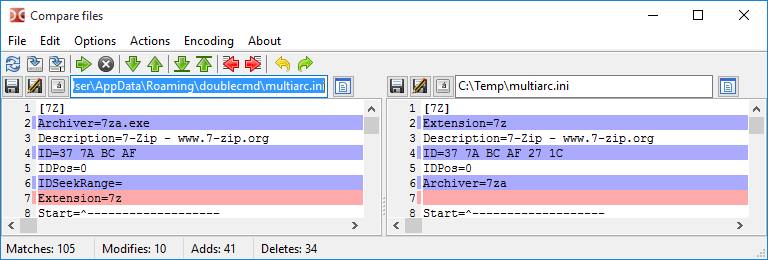
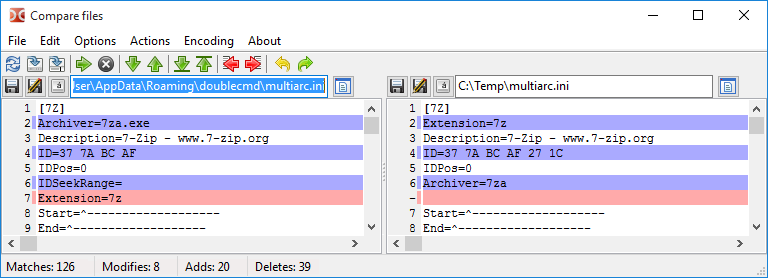
ADD: configuration.html: File associations: Using the internal commands of DC. ADD: configuration.html: Packer plugins: Note about the order of use and how to change it. ADD: multiarc.html: Using ID: How to get a file signature(s). ADD: variables.html: DC environment variables. FIX/CHG: Some Screens

diff --git a/doc/ru/configuration.html b/doc/ru/configuration.html
@@ -565,7 +565,7 @@
         <p><span class="italic">Имя файла плагина при добавлении</span>&nbsp;&ndash; Здесь вы можете выбрать, как будет установлен путь при добавлении плагинов:</p>
         <ul>
           <li><p>С полным абсолютным путём.</p></li>
-          <li><p>С путём относительно %COMMANDER_PATH%.</p></li>
+          <li><p>С путём относительно <a href="variables.html#envvariables">%COMMANDER_PATH%</a>.</p></li>
           <li><p>С путём относительно указанного.</p></li>
         </ul>
         <p>Также вы можете применить выбранный способ к уже добавленным плагинам.</p>
@@ -573,7 +573,8 @@
         <p>Есть несколько типов плагинов:</p>
         <p><span class="italic">1. Архиваторные плагины (WCX)</span></p>
         <p>Архиваторные плагины используются для распаковки определённых типов файлов, обычно архивных форматов. Некоторые плагины также поддерживают создание новых архивов и изменение существующих.<br>
-          Существуют WCX-плагины, позволяющие сохранить список выделенных файлов или использовать пакетную обработку: создание ссылок, конвертирование файлов, копирование с определёнными условиями и т.д.</p>
+          Существуют WCX-плагины, позволяющие сохранить список выделенных файлов или использовать пакетную обработку: создание ссылок, конвертирование файлов, копирование с определёнными условиями и т.д.<br>
+          Порядок имеет значение: при выборе подходящего плагина Double Commander начинает проверку по расширению сверху вниз. Используйте кнопку <span class="italic">Расширения/Плагины</span> для переключения режима представления списка и перетаскивание.</p>
         <p><span class="italic">2. Информационные (или контентные) плагины (WDX)</span></p>
         <p>Информационные плагины предназначены для получения свойств файла или информации о его содержимом (например, теги EXIF или ID3). Вы можете использовать эти данные в инструменте поиска файлов или группового переименования, наборе колонок, всплывающих подсказках.<br>
           Также Double Commander поддерживает контентные плагины, написанные на языке Lua (скрипты добавляются как обычные плагины). Примеры можно найти в папке программы (<tt>plugins/wdx/scripts</tt>).</p>
@@ -634,7 +635,7 @@
         <p>В этом разделе вы можете выбрать, как будет установлен путь при добавлении значков, команд и путей запуска:</p>
         <ul>
           <li><p>С полным абсолютным путём.</p></li>
-          <li><p>С путём относительно %COMMANDER_PATH%.</p></li>
+          <li><p>С путём относительно <a href="variables.html#envvariables">%COMMANDER_PATH%</a>.</p></li>
           <li><p>С путём относительно указанного.</p></li>
         </ul>
         <p>Также вы можете применить выбранный способ к уже добавленным путям.</p>
@@ -926,6 +927,7 @@
           <li><p><tt>{!VIEWER}</tt>&nbsp;&ndash; вызывает просмотрщик (встроенный или внешний, в зависимости от настроек);</p></li>
           <li><p><tt>{!SHELL}</tt>&nbsp;&ndash; для запуска программы использовать терминал.</p></li>
         </ul>
+        <p>В качестве команды можно использовать <a href="cmds.html">внутренние команды</a> Double Commander. Параметры внутренних команд задаются по одному на строку, поэтому здесь вы можете указать только один. Также с помощью внутренней команды cm_ExecuteScript можно запускать <a href="lua.html">скрипты Lua</a>, в этом случае вы можете получить имена выделенных файлов с помощью <a href="cmds.html#cm_CopyFullNamesToClip">cm_CopyFullNamesToClip</a> или <a href="cmds.html#cm_SaveSelectionToFile">cm_SaveSelectionToFile</a>.</p>
         <p><span class="italic">Параметры</span>&nbsp;&ndash; параметры команд, включая переменные:</p>
         <ul>
           <li><p>все <a href="variables.html">переменные, доступные в параметрах DC</a>;</p></li>
@@ -949,7 +951,7 @@
         <p>Ниже вы можете выбрать, как будет установлен путь при добавлении значков, команд и путей запуска:</p>
         <ul>
           <li><p>С полным абсолютным путём.</p></li>
-          <li><p>С путём относительно %COMMANDER_PATH%.</p></li>
+          <li><p>С путём относительно <a href="variables.html#envvariables">%COMMANDER_PATH%</a>.</p></li>
           <li><p>С путём относительно указанного.</p></li>
         </ul>
         <p>Также вы можете применить выбранный способ к уже добавленным путям.</p>
@@ -963,7 +965,7 @@
         <p>В этом разделе вы можете выбрать, как будет установлен путь и целевой путь:</p>
         <ul>
           <li><p>С полным абсолютным путём.</p></li>
-          <li><p>С путём относительно %COMMANDER_PATH%.</p></li>
+          <li><p>С путём относительно <a href="variables.html#envvariables">%COMMANDER_PATH%</a>.</p></li>
           <li><p>С путём относительно указанного.</p></li>
         </ul>
         <p>Также вы можете применить выбранный способ к уже добавленным путям.</p>

diff --git a/doc/ru/variables.html b/doc/ru/variables.html
@@ -37,6 +37,7 @@
           <dt>13. <a href="#interaction">Взаимодействие</a></dt>
           <dt>14. <a href="#miscellaneous">Прочие переменные</a></dt>
           <dt>15. <a href="#summaryall">Сводная таблица со всеми переменными</a></dt>
+          <dt>16. <a href="#envvariables">Переменные окружения</a></dt>
         </dl>
       </div>
 
@@ -62,7 +63,7 @@
           <tr class="rowsubtitle"><th class="namecolumn">Переменная</th><th class="categorydesccolumn">Что обозначает</th></tr>
           <tr>
             <td class="varcell"><div class="firstcolumnaleft">%p</div></td>
-            <td class="hintcell">Полное имя файла, путь+имя файла<br><code>Пример: %p = "C:\Users\UserName\Desktop\comment.png"</code></td>
+            <td class="hintcell">Полное имя файла, путь + имя файла<br><code>Пример: %p = "C:\Users\UserName\Desktop\comment.png"</code></td>
           </tr>
           <tr>
             <td class="varcell"><div class="firstcolumnaleft">%f</div></td>
@@ -315,7 +316,7 @@
           <tr class="rowsubtitle"><th class="namecolumn">Выражение</th><th class="categorydesccolumn">Описание</th></tr>
           <tr>
             <td class="varcell"><div class="firstcolumnaleft">%L</div></td>
-            <td class="hintcell">Файл со списком полных имён выделенных файлов (путь+имя файла)</td>
+            <td class="hintcell">Файл со списком полных имён выделенных файлов (путь + имя файла)</td>
           </tr>
           <tr>
             <td class="varcell"><div class="firstcolumnaleft">%F</div></td>
@@ -497,7 +498,7 @@
           <tr><td class="varcell"><div class="firstcolumnaleft">%/0</div></td><td class="hintcell">путь без разделителя каталогов в конце (по умолчанию)</td></tr>
           <tr><td class="varcell"><div class="firstcolumnaleft">%/1</div></td><td class="hintcell">путь с разделителем каталогов в конце</td></tr>
           <tr><td class="varcell"><div class="firstcolumnaleft">%/</div></td><td class="hintcell">восстанавливает поведение по умолчанию (без разделителя каталогов в конце)</td></tr>
-          <tr><td class="varcell"><div class="firstcolumnaleft">%L</div></td><td class="hintcell">файл со списком выделенных файлов с полными именами (путь+имя файла)</td></tr>
+          <tr><td class="varcell"><div class="firstcolumnaleft">%L</div></td><td class="hintcell">файл со списком выделенных файлов с полными именами (путь + имя файла)</td></tr>
           <tr><td class="varcell"><div class="firstcolumnaleft">%F</div></td><td class="hintcell">файл со списком только имён выделенных файлов</td></tr>
           <tr><td class="varcell"><div class="firstcolumnaleft">%R</div></td><td class="hintcell">файл со списком выделенных файлов с относительным путём</td></tr>
           <tr><td class="varcell"><div class="firstcolumnaleft">Q</div></td><td class="hintcell">суффикс для %L, %F или %R: взять имена файлов в кавычки</td></tr>
@@ -516,8 +517,32 @@
       </div>
 
       <div>
-        <p><small>Originally created by Rustem (dok_rust@bk.ru)</small></p>
+        <h2><a name="envvariables">16. Переменные окружения</a></h2>
+        <p>Double Commander предоставляет несколько переменных окружения:</p>
+        <table>
+          <tr class="rowcategorytitle"><th colspan="2">Переменные окружения</th></tr>
+          <tr class="rowsubtitle"><th class="namecolumn">Переменная</th><th class="categorydesccolumn">Описание</th></tr>
+          <tr>
+            <td class="varcell"><div class="firstcolumnaleft">%COMMANDER_PATH%</div></td>
+            <td class="hintcell">Каталог, в котором расположен исполняемый файл Double Commander</td>
+          </tr>
+          <tr>
+            <td class="varcell"><div class="firstcolumnaleft">%COMMANDER_INI%</div></td>
+            <td class="hintcell">Полное имя (путь + имя файла) основного файла конфигурации (<tt>doublecmd.xml</tt>)</td>
+          </tr>
+          <tr>
+            <td class="varcell"><div class="firstcolumnaleft">%COMMANDER_DRIVE%</div></td>
+            <td class="hintcell">Диск, на котором расположена папка Double Commander:<br>- Windows: буква диска (с двоеточием);<br>- Unix-подобные системы: точка монтирования.</td>
+          </tr>
+        </table>
+        <p>Мы можем использовать переменные окружения в настройках Double Commander: в именах исполняемых файлов и значков на панели инструментов, именах плагинов, в избранных каталогах и т.д. Это удобный способ указать путь, если мы не хотим использовать абсолютные пути.</p>
+        <p>Дополнительно доступна переменная <code>%DC_CONFIG_PATH%</code>, которая возвращает каталог с файлами конфигурации Double Commander. Это не переменная окружения и она недоступна для дочерних процессов (приложений, запущенных из программы), но в остальном мы можем использовать <code>%DC_CONFIG_PATH%</code> аналогично переменным окружения, описанным выше.</p>
+        <p class="navback"><a href="#topofpage">(наверх)</a></p>
+      </div>
+
+      <div>
         <br>
+        <p><small>Originally created by Rustem (dok_rust@bk.ru)</small></p>
       </div>
     </div>
     <div class="footer"><div class="nav"><a title="Начало" href="index.html">Начало</a> | <a title="Предыдущая страница" href="toolbar.html">Пред.</a> | <a title="Следующая страница" href="cmds.html">След.</a></div></div>

diff --git a/doc/en/configuration.html b/doc/en/configuration.html
@@ -565,7 +565,7 @@
         <p><span class="italic">Plugin filename style when adding a new plugin</span>&nbsp;&ndash; Here you can choose how the path will be set when adding plugins:</p>
         <ul>
           <li><p>With complete absolute path.</p></li>
-          <li><p>Path relative to %COMMANDER_PATH%.</p></li>
+          <li><p>Path relative to <a href="variables.html#envvariables">%COMMANDER_PATH%</a>.</p></li>
           <li><p>Relative to the specified path.</p></li>
         </ul>
         <p>Also you can apply the chosen way to the already added plugins.</p>
@@ -573,7 +573,8 @@
         <p>There are several types of plugins:</p>
         <p><span class="italic">1. Packer plugins (WCX)</span></p>
         <p>Packer plugins are used to unpack specific types of files, usually archive formats. Some plugins also support creating new archives and modifying existing archives.<br>
-          There are plugins that allow to save a list of selected files or use batch processing: creating links,converting files, copying with specific conditions, etc.</p>
+          There are plugins that allow to save a list of selected files or use batch processing: creating links,converting files, copying with specific conditions, etc.<br>
+          Order matters: when choosing an appropriate plugin, Double Commander starts checking by extension from top to bottom. Use the <span class="italic">By extension/By plugin</span> button to switch list view and drag and drop.</p>
         <p><span class="italic">2. Content plugins (WDX)</span></p>
         <p>Content plugins are designed to get properties of a file or information about its content (for example, EXIF or ID3 tags). You can use this data in the file search or multi-rename tool, column set, tooltips.<br>
           Also Double Commander supports content plugins written in the Lua language (scripts are added in the same way as ordinary plugins). Examples can be found in the program folder (<tt>plugins/wdx/scripts</tt>).</p>
@@ -634,7 +635,7 @@
         <p>In this section you can choose how the path will be set when adding icons, commands and starting paths:</p>
         <ul>
           <li><p>With complete absolute path.</p></li>
-          <li><p>Path relative to %COMMANDER_PATH%.</p></li>
+          <li><p>Path relative to <a href="variables.html#envvariables">%COMMANDER_PATH%</a>.</p></li>
           <li><p>Relative to the specified path.</p></li>
         </ul>
         <p>Also you can apply the chosen way to the already added paths.</p>
@@ -884,7 +885,7 @@
         <p>In the screenshot at the beginning of the section description, you can see an example of a tooltip with the <tt>textline.wdx</tt> plugin that shows the contents of the selected lines of a text file (in this case, the first, second and third lines), the <span class="italic">Combine DC and system tooltip, system first</span> mode is selected.</p>
         <br>
 
-        <p><span class="bold"><a name="ConfigAssociations">2.23. File associations</a></span> (internal command <tt>cm_FileAssoc</tt>)</p>
+        <p><span class="bold"><a name="ConfigAssociations">2.23. File associations</a></span></p>
         <p>This item opens the configuration file associations. All association sets are contained in the file <tt>extassoc.xml</tt>.</p>
         <p>Here you can customize file associations and set commands or scripts for some file types. Commands will be displayed in the context menu (internal command <tt>cm_ContextMenu</tt>) by right mouse clicking on a file in the panel.</p>
         <p class="figure"><img class="largeimage" title="File associations" alt="File associations" src="images/imgDC/pic48.png" width="612" height="548"></p>
@@ -926,6 +927,7 @@
           <li><p><tt>{!VIEWER}</tt>&nbsp;&ndash; call viewer (internal or external, depends on the configuration);</p></li>
           <li><p><tt>{!SHELL}</tt>&nbsp;&ndash; use a terminal to run the program.</p></li>
         </ul>
+        <p>As a command, you can use the <a href="cmds.html">internal commands</a> of Double Commander. The parameters of the internal commands are specified one per line, so you can specify only one here. Also, using the internal command cm_Execute Script, you can run <a href="lua.html">Lua scripts</a>, in this case you can get the names of the selected files using <a href="cmds.html#cm_CopyFullNamesToClip">cm_CopyFullNamesToClip</a> or <a href="cmds.html#cm_SaveSelectionToFile">cm_SaveSelectionToFile</a>.</p>
         <p><span class="italic">Parameters</span>&nbsp;&ndash; command parameters including variables:</p>
         <ul>
           <li><p>any variable from <a href="variables.html">"percent" variables</a>.</p></li>
@@ -949,7 +951,7 @@
         <p>Below you can choose how the path will be set when adding icons, commands and starting paths:</p>
         <ul>
           <li><p>With complete absolute path.</p></li>
-          <li><p>Path relative to %COMMANDER_PATH%.</p></li>
+          <li><p>Path relative to <a href="variables.html#envvariables">%COMMANDER_PATH%</a>.</p></li>
           <li><p>Relative to the specified path.</p></li>
         </ul>
         <p>Also you can apply the chosen way to the already added paths.</p>
@@ -963,7 +965,7 @@
         <p>In this section you can choose how the path will be set the path and target path:</p>
         <ul>
           <li><p>With complete absolute path.</p></li>
-          <li><p>Path relative to %COMMANDER_PATH%.</p></li>
+          <li><p>Path relative to <a href="variables.html#envvariables">%COMMANDER_PATH%</a>.</p></li>
           <li><p>Relative to the specified path.</p></li>
         </ul>
         <p>Also you can apply the chosen way to the already added paths.</p>

diff --git a/doc/ru/help.html b/doc/ru/help.html
@@ -127,9 +127,9 @@
 
         <p><a name="cm_FileProperties"><span class="bold">Свойства файла...</span></a> (команда <tt>cm_FileProperties</tt>) покажет системный диалог "Свойства" (Windows) или собственное диалоговое окно Double Commander (Linux и другие Unix-подобные системы):</p>
         <p class="figure">
-          <img class="largeimage" title="Свойства файла: Свойства" alt="Свойства файла: Свойства" src="images/imgDC/ris16.png" width="400" height="430">
-          <img class="largeimage" title="Свойства файла: Атрибуты" alt="Свойства файла: Атрибуты" src="images/imgDC/ris17.png" width="400" height="430">
-          <img class="largeimage" title="Свойства файла: Плагины" alt="Свойства файла: Плагины" src="images/imgDC/ris18.png" width="400" height="430">
+          <img class="largeimage" title="Свойства файла: Свойства" alt="Свойства файла: Свойства" src="images/imgDC/ris16.png" width="360" height="406">
+          <img class="largeimage" title="Свойства файла: Атрибуты" alt="Свойства файла: Атрибуты" src="images/imgDC/ris17.png" width="360" height="406">
+          <img class="largeimage" title="Свойства файла: Плагины" alt="Свойства файла: Плагины" src="images/imgDC/ris18.png" width="360" height="406">
         </p>
         <p>в котором указано имя файла или папки, расположение, размер, время модификации и последнего доступа, а также владелец и группа. На вкладке "Атрибуты" можно изменить уровень доступа к файлу (если у вас есть на это права). Вкладка "Плагины" опциональна и доступна только если есть подходящий информационный плагин (в данном случае это <tt>deb.wdx</tt>).</p>
 
@@ -140,7 +140,7 @@
         <p class="figure"><img class="largeimage" title="Подсчёт размера" alt="Подсчёт размера" src="images/imgDC/ris19.png" width="365" height="103"></p>
 
         <p><a name="cm_CompareContents"><span class="bold">Сравнить по содержимому</span></a> (команда <tt>cm_CompareContents</tt>) вызывает окно с двумя панелями, в которых открываются файлы для сравнения (обычно текстовые).</p>
-        <p class="figure"><img class="largeimage" title="Диалог сравнения" alt="Диалог сравнения" src="images/imgDC/ris20.png" width="768" height="260"></p>
+        <p class="figure"><img class="largeimage" title="Диалог сравнения" alt="Диалог сравнения" src="images/imgDC/ris20.png" width="768" height="278"></p>
         <p>Это простой инструмент для визуального сравнения и объединения с типичными функциями: перемещение между различиями (следующее, предыдущее, первое или последнее), копирование блоков текста справа налево и слева направо, редактирование файлов на месте, отмена и повтор последних изменений, сохранение под другим именем и другое.</p>
         <p>Настройки:</p>
         <ul>

diff --git a/doc/ru/multiarc.html b/doc/ru/multiarc.html
@@ -478,7 +478,7 @@
         <p>Для этого у нас есть три опции: ID, Смещение ID и Диапазон поиска ID.</p>
         <p>Мы укажем Double Commander, где нужно искать определённый ID для распознавания типа архива, а затем настроим команды, специфичные для этого типа архива.</p>
         <p>Начнем с простого примера. На следующем изображении показано начало архива 7-Zip в шестнадцатеричном виде:</p>
-        <p class="figure"><img class="largeimage" title="Пример архива 7-Zip" alt="Пример архива 7-Zip" src="images/imgDC/archiveimg25.png" width="764" height="138"></p>
+        <p class="figure"><img class="largeimage" title="Пример архива 7-Zip" alt="Пример архива 7-Zip" src="images/imgDC/archiveimg25.png" width="608" height="122"></p>
         <p>Посмотрев другие архивы 7-Zip, мы видим, что первые шесть байта&nbsp;&ndash; это всегда последовательность 0x37 0x7A 0xBC 0xAF 0x27 0x1C.</p>
         <p>Итак, извлечём из этого пользу: столкнувшись с файлом, который начинается с этой последовательности, Double Commander предположит, что этот файл является архивом 7-Zip.</p>
         <p>Настраиваем:</p>
@@ -489,6 +489,7 @@
         <p><b>Примечание:</b> Все вышеуказанные параметры могут иметь несколько значений, в таком случае можно перечислить их через запятую.</p>
         <p>В нашем примере с архивом 7-Zip будет достаточно указать ID и смещение ID (0, потому что в начале файла).</p>
         <p>Теперь, когда мы вызовем команду <a href="cmds.html#cm_OpenArchive">cm_OpenArchive</a>, Double Commander просканирует содержимое файла, найдёт последовательность "0x37 0x7A 0xBC 0xAF 0x27 0x1C" по смещению 0, и будет обрабатывать его как тип 7Z, с соответствующими командами и параметрами для получения списка, распаковки и т.д.</p>
+        <p>В большинстве случаев нет необходимости изучать файлы в шестнадцатеричном представлении: сигнатуру файла можно найти в спецификации формата или использовать существующие списки, базы или утилиты (например, <a href="https://ru.wikipedia.org/wiki/%D0%A1%D0%BF%D0%B8%D1%81%D0%BE%D0%BA_%D1%81%D0%B8%D0%B3%D0%BD%D0%B0%D1%82%D1%83%D1%80_%D1%84%D0%B0%D0%B9%D0%BB%D0%BE%D0%B2" target="_blank">эта страница Википедии</a> или <a href="https://freedesktop.org/wiki/Software/shared-mime-info/" target="_blank">база данных MIME от FreeDesktop.org</a>).</p>
         <p class="navback"><a href="#topofpage">(наверх)</a></p>
         <br>
       </div>

diff --git a/doc/en/variables.html b/doc/en/variables.html
@@ -37,6 +37,7 @@
           <dt>13. <a href="#interaction">Interaction</a></dt>
           <dt>14. <a href="#miscellaneous">Miscellaneous variables</a></dt>
           <dt>15. <a href="#summaryall">Summary table of all variables</a></dt>
+          <dt>16. <a href="#envvariables">Environment variables</a></dt>
         </dl>
       </div>
 
@@ -62,7 +63,7 @@
           <tr class="rowsubtitle"><th class="namecolumn">Variables</th><th class="categorydesccolumn">What it stands for</th></tr>
           <tr>
             <td class="varcell"><div class="firstcolumnaleft">%p</div></td>
-            <td class="hintcell">Complete filename, path+filename<br><code>Example: %p = "C:\Users\UserName\Desktop\comment.png"</code></td>
+            <td class="hintcell">Complete filename, path + file name<br><code>Example: %p = "C:\Users\UserName\Desktop\comment.png"</code></td>
           </tr>
           <tr>
             <td class="varcell"><div class="firstcolumnaleft">%f</div></td>
@@ -519,8 +520,32 @@
       </div>
 
       <div>
-        <p><small>Originally created by Rustem (dok_rust@bk.ru)</small></p>
+        <h2><a name="envvariables">16. Environment variables</a></h2>
+        <p>Double Commander provides several environment variables:</p>
+        <table>
+          <tr class="rowcategorytitle"><th colspan="2">Environment variables</th></tr>
+          <tr class="rowsubtitle"><th class="namecolumn">Variable</th><th class="categorydesccolumn">Description</th></tr>
+          <tr>
+            <td class="varcell"><div class="firstcolumnaleft">%COMMANDER_PATH%</div></td>
+            <td class="hintcell">The directory where the Double Commander executable file is located</td>
+          </tr>
+          <tr>
+            <td class="varcell"><div class="firstcolumnaleft">%COMMANDER_INI%</div></td>
+            <td class="hintcell">The full name (path + file name) of the main configuration file (<tt>doublecmd.xml</tt>)</td>
+          </tr>
+          <tr>
+            <td class="varcell"><div class="firstcolumnaleft">%COMMANDER_DRIVE%</div></td>
+            <td class="hintcell">The disk where the Double Commander folder is located:<br>- Windows: drive letter (with colon);<br>- Unix-like systems: mount point.</td>
+          </tr>
+        </table>
+        <p>We can use environment variables in the Double Commander settings: in the names of executable files and icons on the toolbar, in the names of plugins, favorite directories, and so on. This is a convenient way to specify a path if we don't want to use absolute paths.</p>
+        <p>Additionally, the <code>%DC_CONFIG_PATH%</code> variable is available, which returns the directory with the Double Commander configuration files. This is not an environment variable and it is not available for child processes (applications launched from Double Commander), but otherwise we can use <code>%DC_CONFIG_PATH%</code> in the same way as the environment variables described above.</p>
+        <p class="navback"><a href="#topofpage">(back to top)</a></p>
+      </div>
+
+      <div>
         <br>
+        <p><small>Originally created by Rustem (dok_rust@bk.ru)</small></p>
       </div>
     </div>
     <div class="footer"><div class="nav"><a title="Index" href="index.html">Index</a> | <a title="Previous page" href="toolbar.html">Previous</a> | <a title="Next page" href="cmds.html">Next</a></div></div>

diff --git a/doc/en/faq.html b/doc/en/faq.html
@@ -77,7 +77,7 @@
               <dt>5.3. <a href="#f3_jpg">Viewer does not work with a few images, but works with most.</a></dt>
               <dt>5.4. <a href="#f3_hscroll">On some text files lines go beyond the window's edge.</a></dt>
               <dt>5.5. <a href="#f4_colmode">Can you add column editing feature (like in Notepad++, UltraEdit etc)?</a></dt>
-              <dt>5.6. <a href="#f3_svg">Is it possible to add support SVG in the viewer?</a></dt>
+              <dt>5.6. <a href="#f3_svg">Is it possible to add SVG support in the viewer?</a></dt>
               <dt>5.7. <a href="#f34_regutf8">How can I use regular expressions to search in UTF-8?</a></dt>
               <dt>5.8. <a href="#f4_syntax">How to change the syntax highlighting scheme in the internal editor or add new ones?</a></dt>
             </dl>
@@ -86,7 +86,7 @@
           <dd>
             <dl>
               <dt>6.1. <a href="#fv_datetime">I didn't find a suitable date format for file panels in the list! How to add my own?</a></dt>
-              <dt>6.2. <a href="#fv_svg">Is it possible to add support SVG thumbnails in thumbnails view?</a></dt>
+              <dt>6.2. <a href="#fv_svg">Is it possible to add SVG thumbnails support in thumbnails view?</a></dt>
               <dt>6.3. <a href="#fn_ext">I want to see the filenames in the "Name" column with extensions, can I do it?</a></dt>
               <dt>6.4. <a href="#folder_sort">Is it possible to sort folders by clicking on column header ("Date", "Size" and so on)?</a></dt>
             </dl>
@@ -344,7 +344,7 @@
         <p><span class="bold">A:</span> Internal editor supports column and line selection modes and multi-carets, see keyboard shortcuts <a href="shortcuts.html#editor">here</a>.</p>
         <br>
 
-        <p class="bold"><a name="f3_svg">Q: Is it possible to add support SVG in the viewer?</a></p>
+        <p class="bold"><a name="f3_svg">Q: Is it possible to add SVG support in the viewer?</a></p>
         <p><span class="bold">A:</span> Supported via librsvg:</p>
         <ul>
           <li><p>Linux: install package <tt>librsvg</tt>.</p></li>
@@ -408,8 +408,8 @@
         <p><span class="bold">A:</span> Date and time format is easy configurable: go to Configurations&nbsp;&gt; Options &nbsp;&gt; Files views&nbsp;&gt; Formatting&nbsp;&gt; Date and time format and use <a href="configuration.html#dt_format">this table</a>.</p>
         <br>
 
-        <p class="bold"><a name="fv_svg">Q: Is it possible to add support SVG thumbnails in thumbnails view?</a></p>
-        <p><span class="bold">A:</span> It's already supported, see <a href="faq.html#f3_svg">Is it possible to add support SVG in the viewer?</a></p>
+        <p class="bold"><a name="fv_svg">Q: Is it possible to add SVG thumbnails support in thumbnails view?</a></p>
+        <p><span class="bold">A:</span> It's already supported, see <a href="faq.html#f3_svg">Is it possible to add SVG support in the viewer?</a></p>
         <br>
 
         <p class="bold"><a name="fn_ext">Q: I want to see the filenames in the "Name" column with extensions, can I do it?</a></p>

diff --git a/doc/en/help.html b/doc/en/help.html
@@ -127,9 +127,9 @@
 
         <p><a name="cm_FileProperties"><span class="bold">Show file properties...</span></a> (internal command <tt>cm_FileProperties</tt>) will show the default "Properties" dialog (Windows) or Double Commander own dialog (Linux and other Unix-like systems) like this:</p>
         <p class="figure">
-          <img class="largeimage" title="Show file properties" alt="Show file properties: Properties" src="images/imgDC/pic16.png" width="400" height="430">
-          <img class="largeimage" title="Show file properties: Attributes" alt="Show file properties" src="images/imgDC/pic17.png" width="400" height="430">
-          <img class="largeimage" title="Show file properties: Plugins" alt="Show file properties" src="images/imgDC/pic18.png" width="400" height="430">
+          <img class="largeimage" title="Show file properties" alt="Show file properties: Properties" src="images/imgDC/pic16.png" width="360" height="406">
+          <img class="largeimage" title="Show file properties: Attributes" alt="Show file properties" src="images/imgDC/pic17.png" width="360" height="406">
+          <img class="largeimage" title="Show file properties: Plugins" alt="Show file properties" src="images/imgDC/pic18.png" width="360" height="406">
         </p>
         <p>which indicates the file or folder name, size, write and last access time, and also owner and group. On the "Attributes" tab you can change the access to the file (if you have the rights to do so). The "Plugins" tab is optional and is only available if you have a suitable content plugin (in this case it was <tt>deb.wdx</tt>).</p>
 
@@ -140,7 +140,7 @@
         <p class="figure"><img class="largeimage" title="Calculate size" alt="Calculate size" src="images/imgDC/pic19.png" width="293" height="103"></p>
 
         <p><a name="cm_CompareContents"><span class="bold">Compare by Contents</span></a> (internal command <tt>cm_CompareContents</tt>) shows a window with two panels with the files to compare (usually text).</p>
-        <p class="figure"><img class="largeimage" title="Compare dialog" alt="Compare dialog" src="images/imgDC/pic20.png" width="768" height="260"></p>
+        <p class="figure"><img class="largeimage" title="Compare dialog" alt="Compare dialog" src="images/imgDC/pic20.png" width="768" height="278"></p>
         <p>It's a simple visual comparison and merging tool with a typical features: navigation between differences (next, previous, first or last), copying blocks of text from right to left and from left to right, editing files in-place, undo and redo the last changes, saving with a different name and other.</p>
         <p>Options:</p>
         <ul>

diff --git a/doc/en/multiarc.html b/doc/en/multiarc.html
@@ -487,7 +487,7 @@
         <p>We have three settings for that: ID, ID Position and ID Seek Range.</p>
         <p>We will instruct Double Commander where to search for specific ID's pattern to recognize an a type of archive and then use the configured commands specific to the recognized type of archive.</p>
         <p>Let's begin by a simple example. Here follows a snapshot of the beginning of a 7-Zip archived:</p>
-        <p class="figure"><img class="largeimage" title="Sample 7-Zip file" alt="Sample 7-Zip file" src="images/imgDC/archiveimg25.png" width="764" height="138"></p>
+        <p class="figure"><img class="largeimage" title="Sample 7-Zip file" alt="Sample 7-Zip file" src="images/imgDC/archiveimg25.png" width="608" height="122"></p>
         <p>By looking at other 7-Zip files, we see that the first six bytes are always the sequence 0x37 0x7A 0xBC 0xAF 0x27 0x1C.</p>
         <p>So we will take profit of that by configuring Double Commander that when it sees a file starting with that sequence to assume that the file is an 7-Zip archive.</p>
         <p>That's what we do with the following configuration:</p>
@@ -498,6 +498,7 @@
         <p><b>Note:</b> All above parameters can be defined with multiple values. We can use comma to separate those multiple values.</p>
         <p>In our example with 7-Zip archive, ID and ID Position (0, because in the beginning of file) will be enough.</p>
         <p>So when we invoke internal command <a href="cmds.html#cm_OpenArchive">cm_OpenArchive</a>, Double Commander will scan content of the file and it recognize the "0x37 0x7A 0xBC 0xAF 0x27 0x1C" pattern at offset 0 in the file, it will process it as it is our configured 7Z type of file and then use the associated configured commands and parameters for listing, extract, etc.</p>
+        <p>In most cases, there is no need to examine files in hexadecimal representation: the file signature can be found in the format specification or use existing lists, databases or utilities (for example, <a href="https://en.wikipedia.org/wiki/List_of_file_signatures" target="_blank">this Wikipedia page</a> or <a href="https://freedesktop.org/wiki/Software/shared-mime-info/" target="_blank">FreeDesktop.org MIME database</a>).</p>
         <p class="navback"><a href="#topofpage">(back to top)</a></p>
         <br>
       </div>

diff --git a/doc/ru/shortcuts.html b/doc/ru/shortcuts.html
@@ -674,8 +674,7 @@
             <td class="hintcell">Режим нормального выделения</td>
           </tr>
         </table>
-        <p>Также встроенный редактор поддерживает режим мульти-кареток: <kbd>Alt+Shift+щелчок</kbd> или <kbd>Alt+Shift+стрелки</kbd>
-        для редактирования колонкой и <kbd>Ctrl+Shift+щелчок</kbd> для редактирования с мульти-каретками.</p>
+        <p>Встроенный редактор поддерживает режим мульти-кареток: <kbd>Alt+Shift+щелчок</kbd> или <kbd>Alt+Shift+стрелки</kbd> для редактирования колонкой и <kbd>Ctrl+Shift+щелчок</kbd> для редактирования с мульти-каретками.</p>
         <p class="navback"><a href="#topofpage">(наверх)</a></p>
       </div>
 

diff --git a/doc/en/shortcuts.html b/doc/en/shortcuts.html
@@ -676,8 +676,7 @@
             <td class="hintcell">Normal selection mode</td>
           </tr>
         </table>
-        <p>Also internal editor support multi-carets mode: <kbd>Alt+Shift+click</kbd> or <kbd>Alt+Shift+arrows</kbd>
-        for column editing and <kbd>Ctrl+Shift+click</kbd> for multi-carets editing.</p>
+        <p>Internal editor supports multi-carets mode: <kbd>Alt+Shift+click</kbd> or <kbd>Alt+Shift+arrows</kbd> for column editing and <kbd>Ctrl+Shift+click</kbd> for multi-carets editing.</p>
         <p class="navback"><a href="#topofpage">(back to top)</a></p>
       </div>
 
